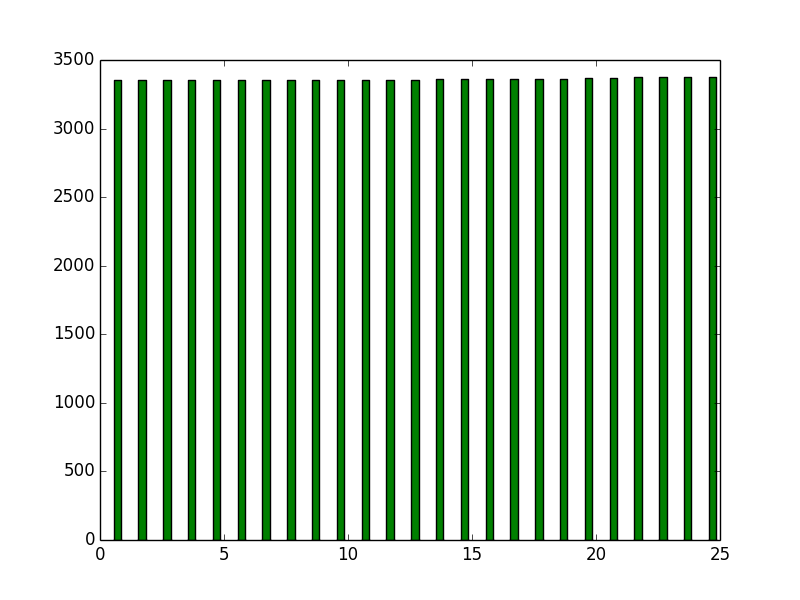
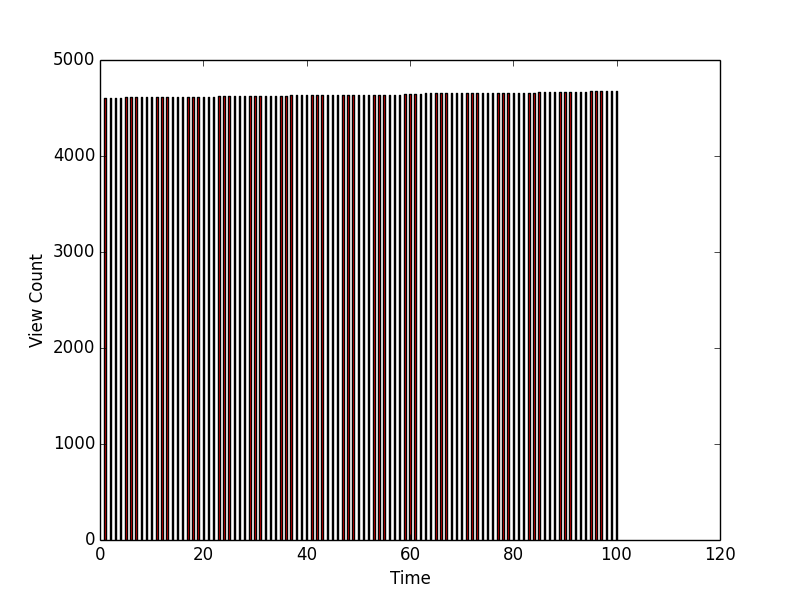
updates to the graph.py. It is now a function that takes in one url and generates three graphs from it

diff --git a/pythonVersion/graph.py b/pythonVersion/graph.py
@@ -4,37 +4,53 @@ import urllib2
 import simplejson
 import matplotlib.pyplot as plt
 
-data = urllib2.urlopen('http://contextminer.org/api.php/campaigns?u=chirags%40rutgers.edu&cid=516&source=youtube&everytime=1&ytid=wm4o1fYtCTQ&page=4&limit=25&fmt=json')
+def graph(url):
+    data = urllib2.urlopen(url)
 
 
-j = json.load(data)
-print(j['data'][0])
-viewcount = []
-commentcount = []
-favoritecount = []
-x1 = []
-x2 = []
-x3 = []
-count = 1
-for video in j['data']: 
-    viewcount.append(int(video['view_count']))
-    commentcount.append(int(video['comment_count']))
-    favoritecount.append(int(video['favorite_count']))
-    x1.append(count - .3)
-    x2.append(count)
-    x3.append(count + .3)
-    count = count + 1
-print commentcount
-print viewcount
-print favoritecount
-w = .3
-ind = np.arange(5)
-fig = plt.figure()
-ax = fig.add_subplot(111)
+    j = json.load(data)
+    print(j['data'][0])
+    viewcount = []
+    commentcount = []
+    favoritecount = []
+    x1 = []
+    x2 = []
+    x3 = []
+    count = 1
+    for video in j['data']: 
+        viewcount.append(int(video['view_count']))
+        commentcount.append(int(video['comment_count']))
+        favoritecount.append(int(video['favorite_count']))
+        x1.append(count - .3)
+        x2.append(count)
+        x3.append(count + .3)
+        count = count + 1
+    print commentcount
+    print viewcount
+    print favoritecount
+    w = .3
+    ind = np.arange(5)
+    fig = plt.figure()
+    ax = fig.add_subplot(111)
+    bx = fig.add_subplot(111)
+    cx = fig.add_subplot(111) 
 
-ax.bar(x1, commentcount, width=w, color='b', align='center')
-plt.savefig('coments.png')
-ax.bar(x1, viewcount, width=w, color='g', align='center')
-plt.savefig('views.png')
-ax.bar(x1, favoritecount, width=w, color='r', align='center')
-plt.show()
+    ax.set_ylabel('Favorites Count')
+    ax.set_xlabel('Time')
+    ax.bar(x1, favoritecount, width=w, color='b', align='center')
+    plt.savefig('favorites.png')
+    ax.clear() 
+     
+    ax.set_ylabel('Comment Count')
+    ax.set_xlabel('Time')
+    ax.bar(x1, commentcount, width=w, color='g', align='center')
+    plt.savefig('comments.png')
+    ax.clear()
+
+    ax.set_ylabel('View Count')
+    ax.set_xlabel('Time')
+    ax.bar(x2, viewcount, width=w, color='r', align='center')
+    plt.savefig('views.png')
+    ax.clear()
+
+graph('http://contextminer.org/api.php/campaigns?u=chirags%40rutgers.edu&cid=516&source=youtube&everytime=1&ytid=wm4o1fYtCTQ&page=4&limit=100&fmt=json')
